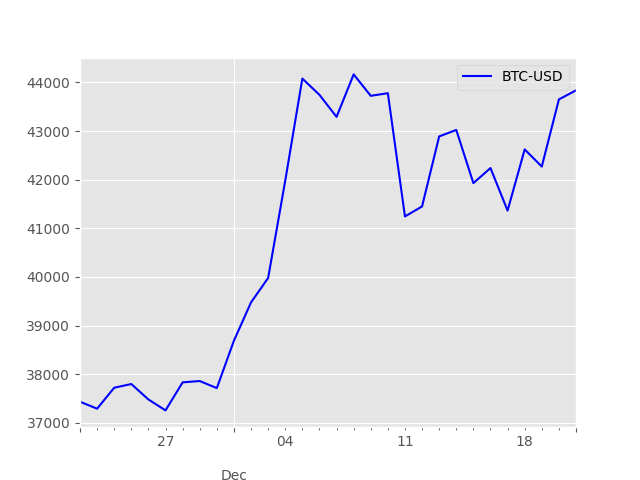
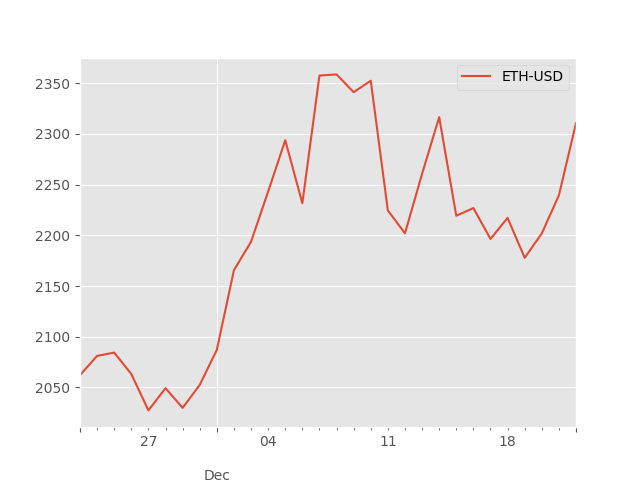
framställer historisk prisutveckling för användargiven kryptovaluta

diff --git a/templates/index.html b/templates/index.html
@@ -8,8 +8,20 @@
 </head>
 <body>
     <div class="container">
-        <h1>Crypto @ Minerva University</h1>
-        <p>Arlind, Shams, Bilal</p>
+       <h1>Crypto @ Minerva University</h1>
+    </div>
+    <div class="container">  
+      <center>
+        <form action="plot" method="POST">
+          <p>Crypto symbol <input type="text" name="symbol"/></p>
+          <p><input type="submit" value="submit" /></p>
+        </form>
+        <p>{{ name }}</p>
+        <img src={{ url }} alt="Chart">
+      </center>
+    </div>
+    <div class="container">
+      <p>Arlind, Shams, Bilal</p>
     </div>
 </body>
 </html>

diff --git a/static/style.css b/static/style.css
@@ -13,13 +13,19 @@ body{
 }
 
 .container{
-  background-color:#fefefe;color:#333;margin:2em auto;width:68em;padding:2em
+  background-color:#fefefe;
+  color:#333;
+  margin:2em auto;
+  width:68em;
+  padding:2em
 }
 
 p{
-  font-size:1.2em;margin-bottom:1.54rem
+  font-size:1.2em;
+  margin-bottom:1.54rem
 }
 
 h1{
-  font-size:2.8em;margin-bottom:1.54rem
+  font-size:2.8em;
+  margin-bottom:1.54rem
 }

diff --git a/app.py b/app.py
@@ -1,4 +1,4 @@
-from flask import Flask, render_template
+from flask import Flask, render_template, request
 from misc import plot_historical_data
 
 app = Flask(__name__)
@@ -6,15 +6,23 @@ app = Flask(__name__)
 
 @app.route("/")
 def index():
-    return render_template("index.html")
-
-
-@app.route("/plot")  # type: ignore
-def plot():
     plot_historical_data()
     return render_template(
-        "plot.html", name="Close price", url="static/images/plot.png"
+        "index.html", name="Close price", url="static/images/plot.png"
     )
+
+
+@app.route("/plot", methods=["GET", "POST"])  # type: ignore
+def plot():
+    if request.method == "GET":
+        return "The URL /data is accessed directly. Try going to '/form' to submit form"
+
+    if request.method == "POST":
+        form_data = request.form
+        plot_historical_data(form_data["symbol"])
+        return render_template(
+            "index.html", name="Close price", url="static/images/plot.png"
+        )
 
 
 if __name__ == "__main__":

diff --git a/misc.py b/misc.py
@@ -13,9 +13,9 @@ def get_price(symbol: str, period="1d"):
     return data.history(period=period)["Close"].values[0]
 
 
-def plot_historical_data() -> None:
-    data = yahoo.Ticker("BTC-USD").history(period="30d")
-    plot = data.plot(y="Close", label="BTC-USD")
+def plot_historical_data(symbol: str = "BTC-USD") -> None:
+    data = yahoo.Ticker(symbol).history(period="30d")
+    plot = data.plot(y="Close", label=symbol)
     fig = plot.get_figure()
     fig.savefig(path.join("static", "images", "plot.png"))
 
